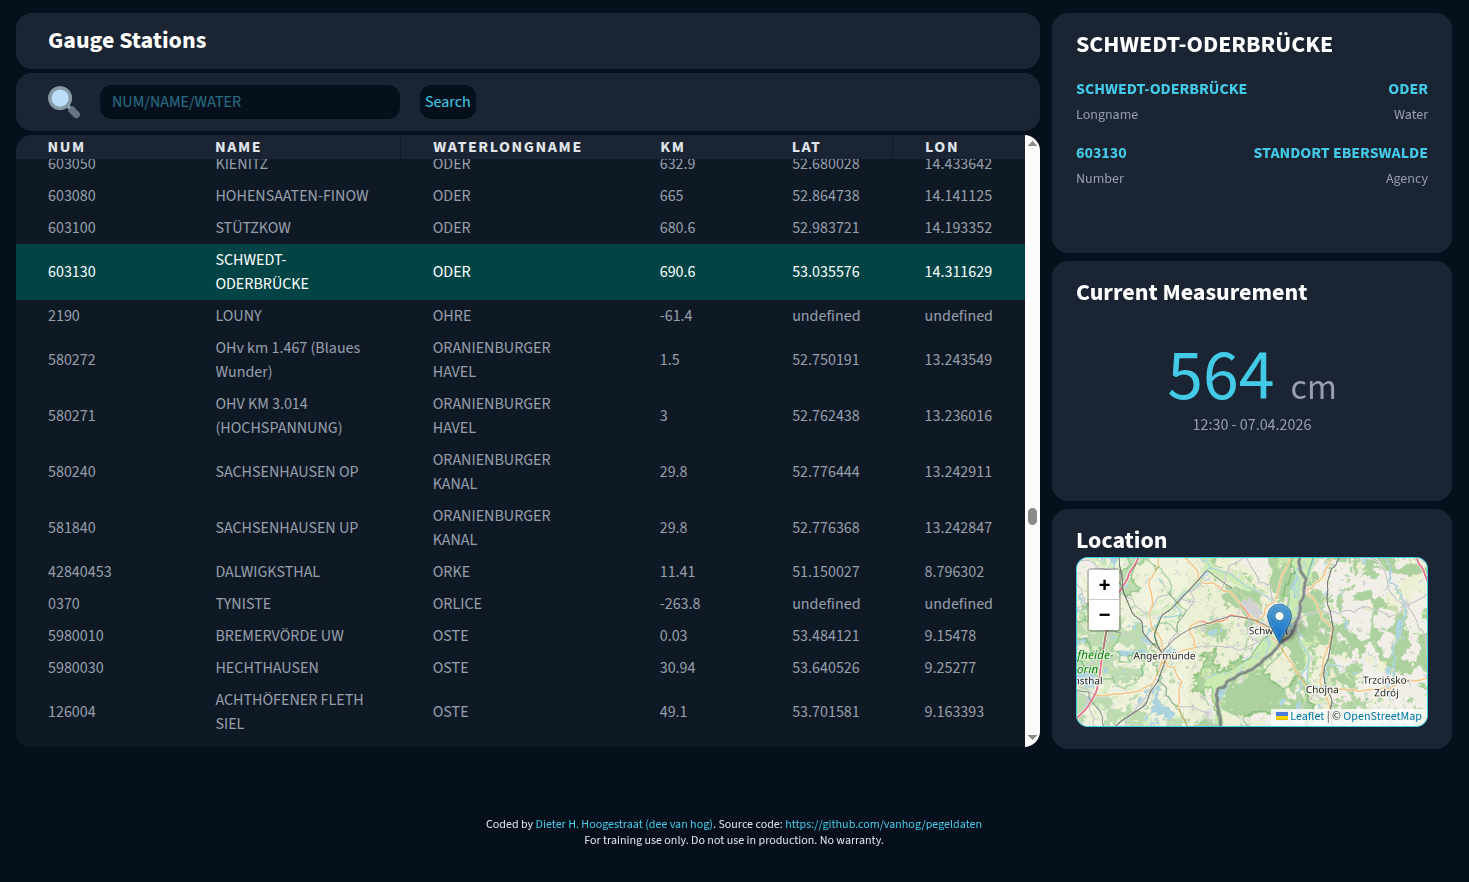
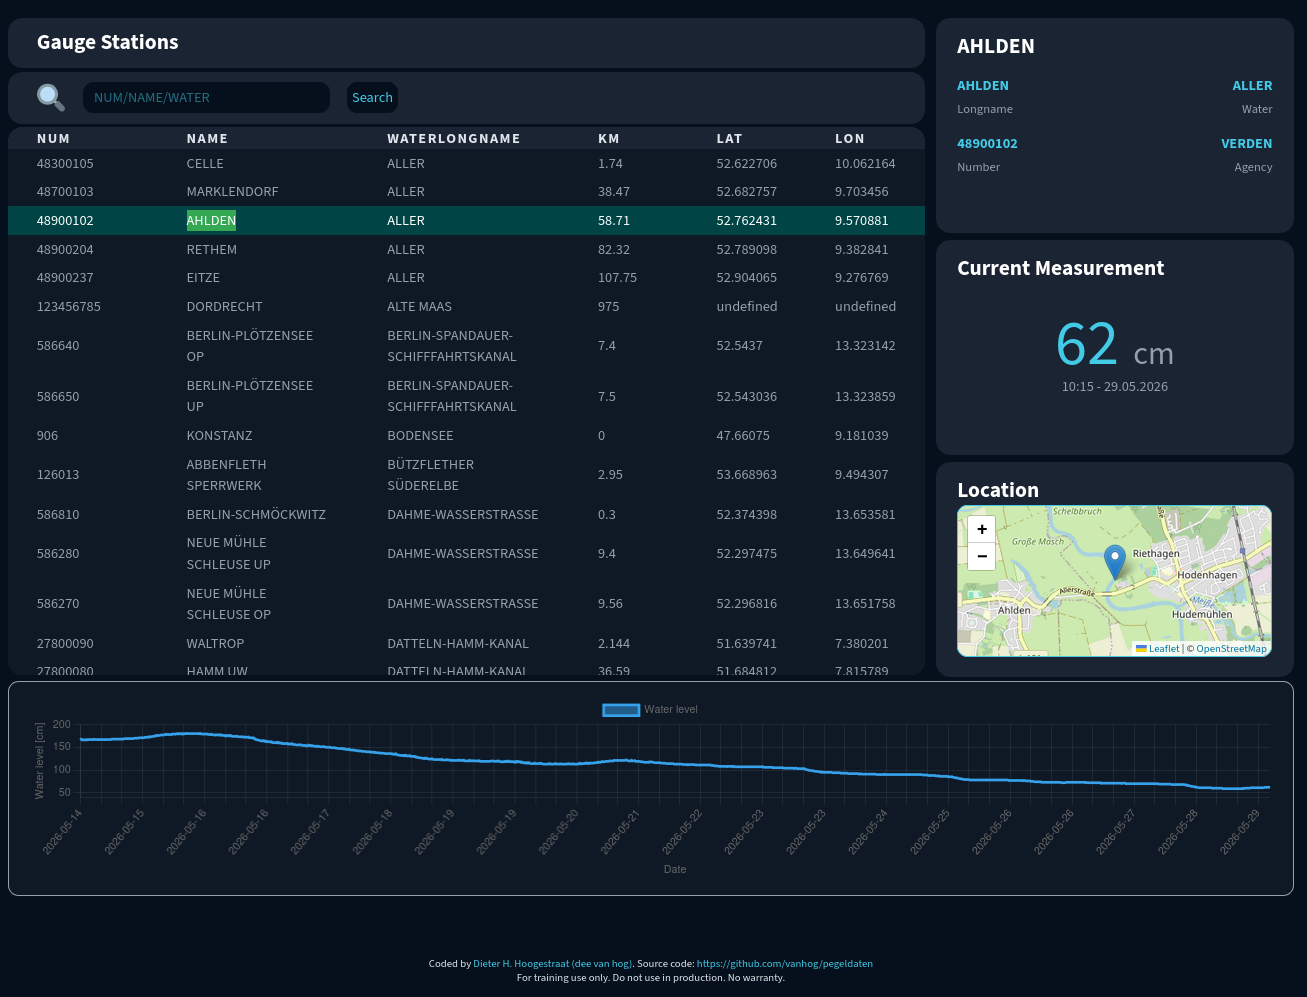
New README and screenshot

diff --git a/README.md b/README.md
@@ -2,7 +2,7 @@
 
 **For training use only. Do not use in production. No warranty.**
 
-This is a free-style training project created as part of the OpenCampus Web Development Program 2025.
+This repository is a frontend training project created as part of the OpenCampus Web Development Program.
 
 ## Table of contents
 
@@ -10,36 +10,26 @@ This is a free-style training project created as part of the OpenCampus Web Deve
   - [The challenge](#the-challenge)
   - [Screenshot](#screenshot)
   - [Links](#links)
-- [My process](#my-process)
-  - [Built with](#built-with)
-  - [Architecture](#architecture)
-  - [What I learned](#what-i-learned)
-  - [Continued development](#continued-development)
-  - [Useful resources](#useful-resources)
+- [Screenshot](#screenshot)
+- [Features](#features)
+- [Getting started](#getting-started)
+- [Built with](#built-with)
+- [Architecture & notes](#architecture--notes)
+- [Useful resources](#useful-resources)
 - [Author](#author)
 
 ## Overview
 
-### The challenge
+This is a single-page frontend application that lists hydrological gauge stations (Pegel) and provides quick access to station metadata, current measurements, a small timeseries chart and an embedded map view.
 
-The application should be able to:
+### What the app does
 
-- Fetch station data from the Pegelonline REST API
-- Display the data in an interactive table:
-  - Sort ascending/descending by clicking on column headers
-  - Scroll through the list of stations
-  - Keep the table header sticky while scrolling
-- Open a detail view (drawer) on double-clicking a table row
-- Display:
-  - General station information in one drawer
-  - Current measurements in a second drawer
-- Reserve a third drawer for future map integration
-- Provide search functionality across:
-  - short name
-    - long name
-    - water short name
-    - water long name
-    - station number
+- Fetches station and timeseries data from the Pegelonline REST API
+- Renders an interactive, sortable table with a sticky header
+- Supports searching/filtering by station number, short name, and river name
+- Opens detail drawers on row double-click to show metadata and current measurements
+- Displays a Chart.js timeseries plot for recent measurements
+- Shows a Leaflet map in the Location drawer (map is initialized and updated)
 
 ### Screenshot
 
@@ -50,42 +40,45 @@ The application should be able to:
 - Solution URL: https://github.com/vanhog/pegeldaten
 - Live Site URL: https://vanhogs-pegeldaten.netlify.app/
 
-## My process
+## Features
 
-### Built with
+- Interactive, sortable station table (click column headers)
+- Sticky table header while scrolling
+- Double-click to open station details
+- Current measurement display and timestamp
+- Timeseries chart (Chart.js) for selected station
+- Leaflet map showing station coordinates
 
-- Semantic HTML5
-- Tailwind CSS
-- CSS custom properties
-- Flexbox & CSS Grid
-- Mobile-first workflow
+## Getting started
+
+Prerequisites: Node.js and npm installed.
+
+Install and run locally:
+
+```bash
+npm install
+npm run dev      # start Vite dev server
+npm run build    # runs `tsc && vite build` to build production bundle
+npm run preview  # preview production build
+```
+
+Open the app at the URL printed by the Vite dev server (usually http://localhost:5173).
+
+## Built with
+
 - TypeScript
+- Vite
+- Tailwind CSS (with @tailwindcss/vite)
+- Chart.js
+- Leaflet (map)
+- @js-temporal/polyfill (date/time handling)
 
-### Architecture
+## Architecture & notes
 
-- Frontend-only application (no backend yet)
-- Data fetched directly from external REST API (Pegelonline)
-- State handled in the browser using TypeScript
-- Modular rendering approach (table + drawers)
-
-## What I learned
-
-- Fetching and handling data from a REST API
-- Implementing a sticky table header
-- Dynamically rendering table data with TypeScript
-- Transforming and mapping API data structures
-- Structuring UI components (table, drawers, state handling)
-- Using AI tools to support development (e.g. object mapping)
-
-## Continued development
-
-Next steps:
-
-- Integrate an interactive map to display station locations
-- Improve performance for large datasets
-- Add filtering and advanced search capabilities
-- Enhance accessibility (ARIA roles, keyboard navigation)
-- Introduce a backend (Node.js + PostGIS) for persistence and scaling
+- Frontend-only SPA. Data is fetched directly from the Pegelonline REST API.
+- UI is modular: table renderer, two detail drawers (metadata + current measurement), chart, and map module.
+- The project uses strict TypeScript settings (see `tsconfig.json`). The `build` script runs `tsc` before `vite build`.
+- `package.json` contains `pg` and `@types/pg` — these are currently present but no backend is included; they indicate potential future backend/PostGIS work.
 
 ## Useful resources
 
